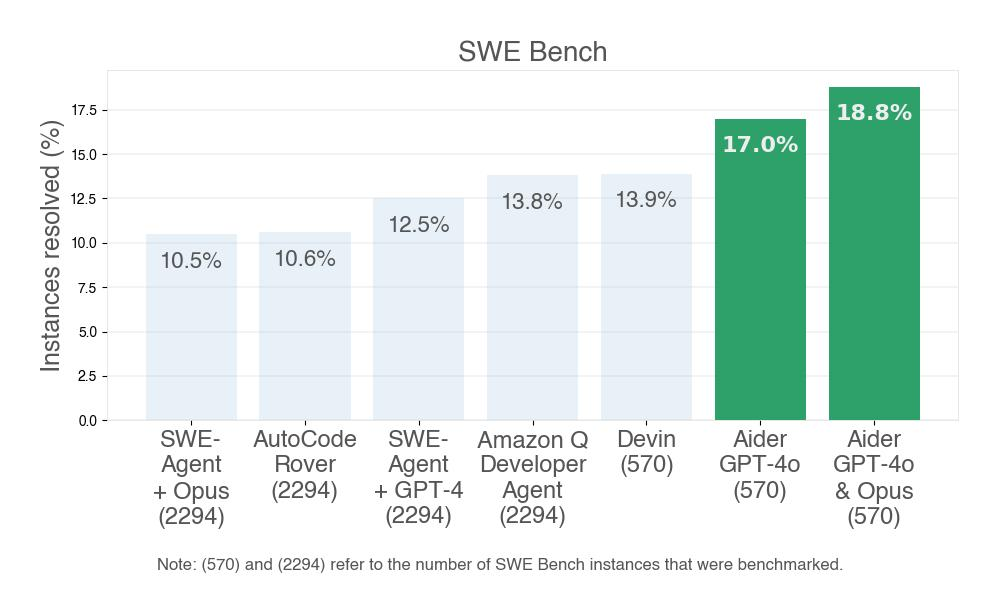
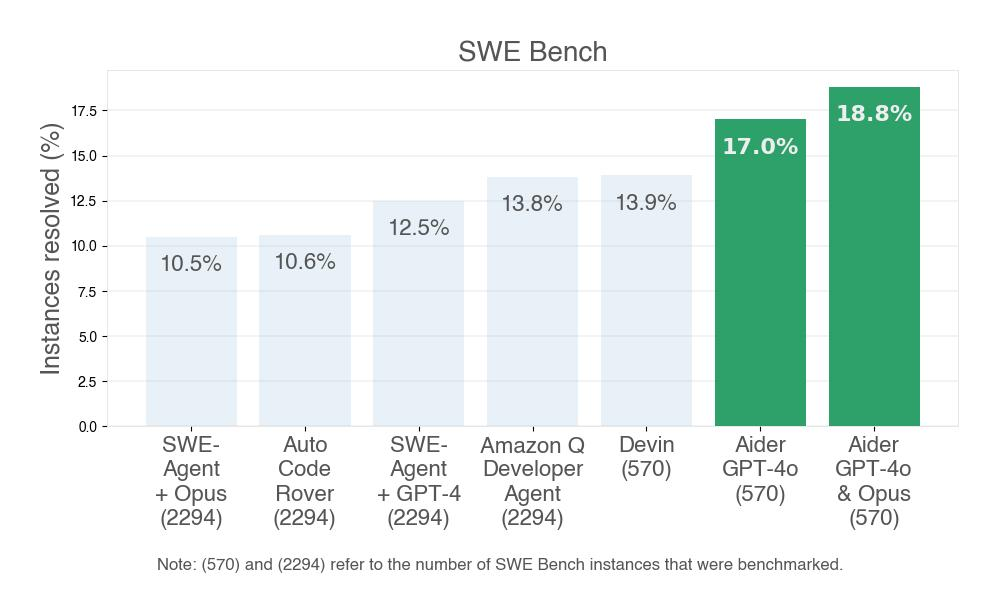
copy

diff --git a/benchmark/swe_bench_lite.py b/benchmark/swe_bench_lite.py
@@ -76,7 +76,7 @@ def plot_swe_bench_lite(data_file):
     ax.set_title(title, fontsize=20)
     # ax.set_ylim(0, 29.9)
     plt.xticks(
-        fontsize=17,
+        fontsize=16,
         color=font_color,
     )
 

diff --git a/_posts/2024-05-31-both-swe-bench.md b/_posts/2024-05-31-both-swe-bench.md
@@ -16,9 +16,9 @@ from Amazon Q Developer Agent.
 The best result reported elsewhere seems to be
 [13.9% from Devin](https://www.cognition.ai/post/swe-bench-technical-report).
 
-This is in addition to
+This result on the main SWE Bench is in addition to
 [aider's SOTA result on the easier SWE Bench Lite](https://aider.chat/2024/05/22/swe-bench-lite.html)
-that was reported last week.
+that was reported recently.
 
 [![SWE Bench results](/assets/swe_bench.svg)](https://aider.chat/assets/swe_bench.svg)
 
@@ -57,11 +57,10 @@ with the problem statement
 submitted as the opening chat message from "the user".
 - After that aider ran as normal, except all of aider's
 suggestions were always accepted without user approval.
-- A simple harness was used to retry the SWE Bench problem if aider produced code that wasn't *plausibly correct*.
+- A [simple harness](https://github.com/paul-gauthier/aider-swe-bench#the-aider-agent) was used to retry the SWE Bench problem if aider produced code that wasn't *plausibly correct*.
 Plausibly correct means that aider reported that it had successfully edited the repo
 without causing syntax errors or breaking any *pre-existing* tests.
-- If the solution from aider with GPT-4o isn't plausible, the harness launches aider to try again from scratch,
-this time using Claude 3 Opus.
+- If the solution from aider with GPT-4o wasn't plausible, the harness launched aider to try again from scratch, this time using Claude 3 Opus.
 - If no plausible solution is found after those two tries, the harness picks the "most plausible" solution with the fewest edit/lint/test problems.
 
 It's important to be clear that
@@ -73,20 +72,22 @@ correctly resolved.
 
 This is the same methodology
 that was used for [aider's recent SOTA result on SWE Bench Lite](https://aider.chat/2024/05/22/swe-bench-lite.html).
-The only difference is that for this result
-at most two tries were attempted instead of six,
-due to the increased token costs involved in this benchmark.
-The SWE Bench problems are more difficult and involve edits to
+Aider alternated between GPT-4o and Opus for up to 6 total attempts
+on the Lite benchmark.
+Due to the increased token costs involved in running
+the main SWE Bench benchmark, aider was limited to 2 total attempts.
+Problems from the main SWE Bench dataset
+are more difficult and involve edits to
 more than one source file,
-which increased the cost of solving each problem.
-Further, aider was benchmarked on 570 SWE Bench problems,
+which increased the token costs of solving each problem.
+Further, aider was benchmarked on 570 SWE Bench problems
 versus only 300 Lite problems,
 adding another factor of ~two to the costs.
 
 For a detailed discussion of the methodology, please see the
 [article about aider's SWE Bench Lite results](https://aider.chat/2024/05/22/swe-bench-lite.html).
 The [aider SWE Bench repository on GitHub](https://github.com/paul-gauthier/aider-swe-bench) also contains
-the harness and reporting code used for the benchmarks.
+the harness and analysis code used for the benchmarks.
 
 The benchmarking process was similar to how a developer might use aider to
 resolve a GitHub issue:
@@ -103,8 +104,7 @@ so it's always easy to revert AI changes that don't pan out.
 
 ## Aider with GPT-4o alone was SOTA
 
-Running the benchmark harness
-only using aider with GPT-4o to find plausible solutions with a single attempt
+Using aider with GPT-4o to make a single attempt at solving each problem
 achieved a score of 17.0%.
 This was itself a state-of-the-art result, before being surpassed by the main
 result being reported here
@@ -112,13 +112,13 @@ that used aider with both GPT-4o & Opus.
 
 ## Aider with GPT-4o & Opus
 
-The benchmark harness started by running aider with GPT-4o once to try
+The benchmark harness ran aider with GPT-4o to try
 and solve the problem. If
-no plausible solution was found, it then used aider with Opus
-once to try and solve the problem.
+no plausible solution was found, it ran aider with Opus
+to try and solve the problem.
 
 The table below breaks down the proposed solutions that
-were found for the 570 problems.
+were found from each attempt for the 570 problems.
 A proposed solution is either:
 
 - A plausible solution where
@@ -137,22 +137,55 @@ verified as correctly resolving their issue.
 
 ## Non-plausible but correct solutions?
 
-It's worth noting that the first row of the table above
-only scored 15.3% on the benchmark,
-which differs from the 17.0% result reported above for aider with just GPT-4o.
-This is because making additional attempts is not guaranteed to
-monotonically increase the number of resolved issues.
-Later attempts may propose solutions which
-seem "more plausible" than prior attempts,
-but which are actually worse solutions.
-Luckily the later attempts usually provide a net increase in the overall
+A solution doesn't have to be plausible in order to correctly resolve the issue.
+Recall that plausible is simply defined as aider
+reporting that it successfully edited files,
+repaired and resolved any linting errors
+and repaired tests so that they all passed.
+But there are lots of reasons why aider might fail to do those things
+and yet the solution is still a correct solution that will pass
+acceptance testing:
+
+- There could be pre-existing failing tests in the repo,
+before aider even starts working on the SWE Bench problem.
+Aider may not resolve such issues, and yet they may turn out not to be
+relevant to the acceptance testing.
+The SWE Bench acceptance testing just confirms that tests pass or fail
+in the same pattern as the "gold patch" developed by a human to solve the
+problem.
+Some tests may still fail, and that's ok as long they fail for the gold
+patch too.
+- There could be pre-existing linting problems in the repo,
+which are in code paths that are irrelevant to the problem being solved
+and to acceptance testing.
+If aider is unable to resolve them, the solution may still be valid
+and pass acceptance testing.
+- Aider may report editing errors because it doesn't think it was
+able to successfully apply all the edits the LLM specified.
+In this scenario, the LLM has specified edits in an invalid
+format that doesn't comply with its
+system prompt instructions.
+So it may be that the LLM was asking for redundant or otherwise
+irrelevant edits, such that outstanding edit errors are actually not fatal.
+
+This is why the first row in the table above
+shows GPT-4o accounting for 15.3% of the benchmark score,
+which is different than the 17.0% result reported earlier
+for aider with just GPT-4o.
+The second attempt from Opus may propose solutions which
+are "more plausible" than some of GPT-4's non-plausible solutions,
+but which are actually incorrect solutions.
+These more plausible but incorrect solutions can
+eclipse the earlier non-plausible correct
+solution.
+Luckily the full set of later attempts usually provide a net increase in the overall
 number of resolved solutions, as is the case here.
 
-This table breaks down the plausibility of each solution proposed by
-aider with GPT-4o and with Opus, as well as whether it was actually
-a correct solution.
+The table below breaks down the plausibility of each solution proposed by
+aider with GPT-4o and with Opus, and indicates which were actually
+correct solutions.
 
-|Row|GPT-4o<br>solution<br>plausible?|GPT-4o<br>solution<br>resolved issue?|Opus<br>solution<br>plausible?|Opus<br>solution<br>resolved issue?|Count|
+|Row|Aider<br>w/GPT-4o<br>solution<br>plausible?|Aider<br>w/GPT-4o<br>solution<br>resolved<br>issue?|Aider<br>w/Opus<br>solution<br>plausible?|Aider<br>w/Opus<br>solution<br>resolved<br>issue?|Count|
 |---:|--:|--:|--:|--:|--:|
 |  1 | plausible       | resolved        | n/a             | n/a             |  73 |
 |  2 | plausible       | not resolved    | n/a             | n/a             | 181 |
@@ -173,16 +206,12 @@ at solving these problems, because the harness stopped once a
 plausible solution was found.
 
 The remaining rows consider cases where aider with GPT-4o
-did not find a plausible solution, so Opus had a turn to try and solve.
+did not find a plausible solution, so Opus got a turn to try and solve.
 Rows 3-6 are cases where GPT-4o's non-plausible solutions were
 actually found to be correct in hindsight,
-but in rows 4 we can see that aider with Opus overrides
+but in row 4 we can see that aider with Opus overrides
 2 of them with a plausible-but-incorrect
 solution.
-The original correct solutions from GPT-4o may not have been
-plausible because of pre-existing or otherwise
-unresolved editing, linting or testing errors which were unrelated
-to the SWE Bench issue or which turned out to be non-fatal.
 
 In rows 5-6 & 9-10 we can see that both GPT-4o and Opus
 produced non-plausible solutions,
